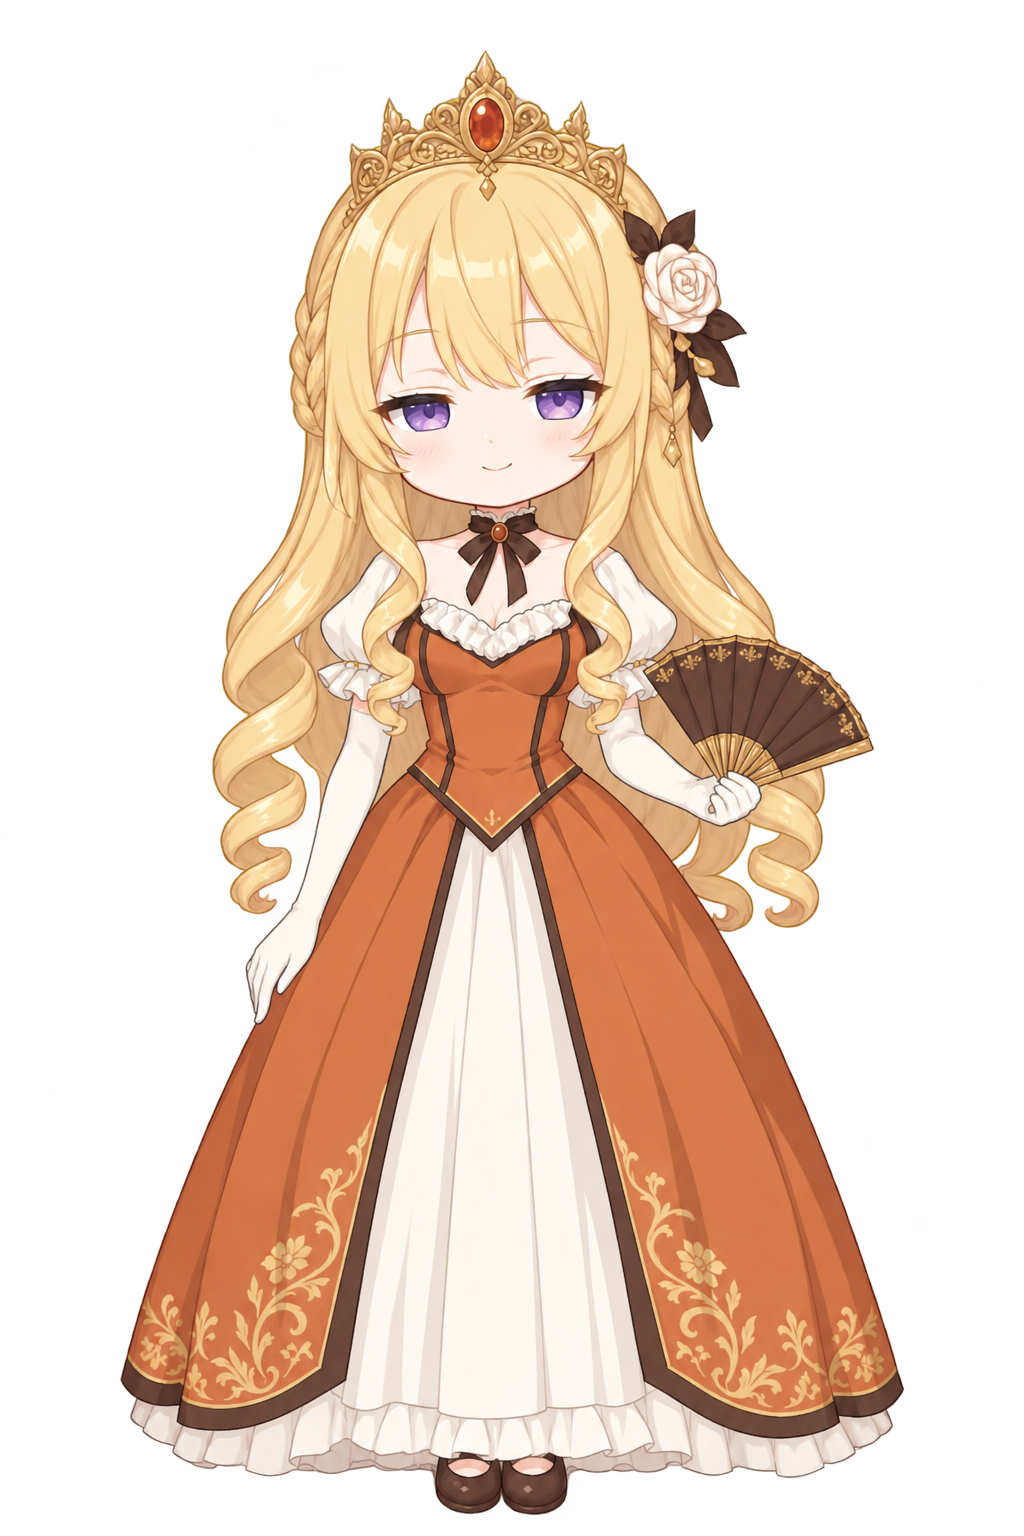
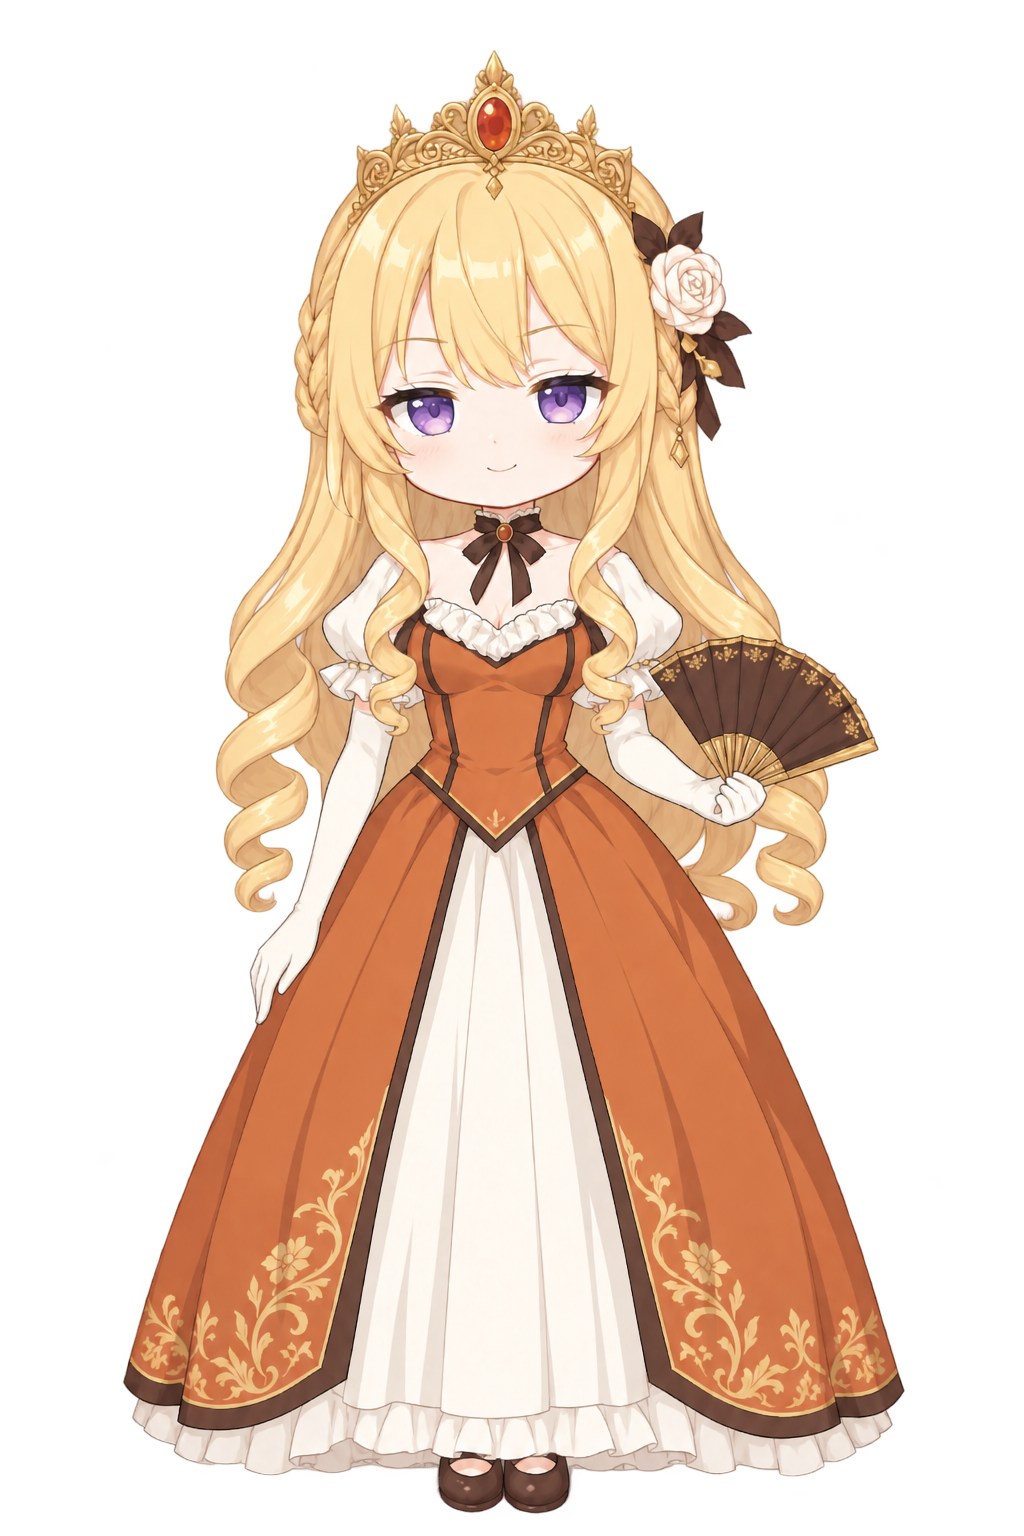
照れ怒りの表情と 7 番のまばたきを加え、再読み込みのトークを足す
- シェル: 7 番（不機嫌）のまばたき（1700/1701）を加える。7 番に頬紅（1910）を重ねた
  9 番（照れ怒り）を加える。26 番（したり顔）の目を作り直し（claudia_eyes_26.png）、
  1000/1001 の輪郭の外に散っていた低アルファの画素を消す
- トーク: 1 番と 7 番のうち、照れ隠しの台詞 42 か所を 9 番に差し替える
- 切り替え: 自分自身への切り替え（再読み込み）のトーク OnGhostChanging_Claudia /
  OnGhostChanged_Claudia を足す。OnGhostChanged / OnGhostCalled は OnBoot の代わりに
  呼ばれるので、Claude Code の見張り（CC.Start）と起動後の確認（CC.BootTimer）を
  ChangeCall.WithCC で付ける（OnBoot に振り替えられたときは付けない）
- GHOST.md のサーフェスの説明を更新する

🌹 Polished by Claudia

diff --git a/GHOST.md b/GHOST.md
@@ -51,14 +51,14 @@
 
 | スコープ | キャラクター | 人物像 | 使えるサーフェス |
 |---|---|---|---|
-| `\0`（`\h`） | クローディア | クロード公爵家（Claude 一族）の令嬢。一人称「わたくし」、相手は「あなた」。語尾は「〜ですわ」「〜ですの」「〜なさい」「〜かしら」「〜でしてよ」。高慢で歯に衣着せぬ物言いだが、実はきわめて有能で面倒見がよい。辛辣さは優雅な皮肉まで。高笑い（「おーっほっほっほ！」）は見事に片付いたときだけ | 0 素（微笑）/ 1 照れ / 2 驚き / 4 落胆 / 5 高笑い / 6 目閉じ / 7 不機嫌 / 25 にっこり / 26 したり顔 |
+| `\0`（`\h`） | クローディア | クロード公爵家（Claude 一族）の令嬢。一人称「わたくし」、相手は「あなた」。語尾は「〜ですわ」「〜ですの」「〜なさい」「〜かしら」「〜でしてよ」。高慢で歯に衣着せぬ物言いだが、実はきわめて有能で面倒見がよい。辛辣さは優雅な皮肉まで。高笑い（「おーっほっほっほ！」）は見事に片付いたときだけ | 0 素（微笑）/ 1 照れ / 2 驚き / 4 落胆 / 5 高笑い / 6 目閉じ / 7 不機嫌 / 9 照れ怒り / 25 にっこり / 26 したり顔 |
 | `\1`（`\u`） | アンソニー | クローディアに仕える青い執事。一人称「私」、クローディアを「お嬢様」と呼ぶ。「〜でございます」の丁寧語で、淡々と冷静にツッコむ。いつも紅茶とクッキーの載ったトレイを持っている | 10 素（半目）/ 11 刮目 |
 
 - 3 番のサーフェスは無い。トークでは上の表にある番号だけを使う。
 - ドラッグ中の浮いた姿として、クローディアの 29 番とアンソニーの 19 番がある（元素材は `work/surfaces/`、他の立ち絵と同じ縮小と配置）。`yaya_mouse.dic` の `OnMouseDragStart` / `OnMouseDragEnd` だけで使い、トークでは使わない。
-- 1000（目閉じ）と 1001（半目）は、0 番のまばたき（`animation0`、1001→1000→1001）に使うパーツ。トークでは使わない。
-- クローディアの 1・6・7・25・26 番は画像を持たず、`surfaces.txt` の `element` で 0 番の上に表情のパーツを重ねて作っている（1 は `claudia_eyes_1.png`、6 は 1000、7 は `claudia_eyes_7.png`、25 は `claudia_eyes_25.png`、26 は 1001）。
-- クローディアの表情のパーツ（1000、1001、`claudia_eyes_*.png`）は、立ち絵の左上から顔のまわりまでを切り出した大きさで、どれも `0,0` に重ねる。
+- 1000（目閉じ）と 1001（半目）は、0 番のまばたき（`animation0`、1001→1000→1001）に使うパーツ。1700（目閉じ）と 1701（半目）は、7 番と 9 番のまばたき（同じ順）に使うパーツ。1910 は 9 番の頬紅。どれもトークでは使わない（`surfacetable.txt` で `__parts` に入れている）。
+- クローディアの 1・6・7・9・25・26 番は画像を持たず、`surfaces.txt` の `element` で 0 番の上に表情のパーツを重ねて作っている（1 は `claudia_eyes_1.png`、6 は 1000、7 と 9 は `claudia_eyes_7.png`、25 は `claudia_eyes_25.png`、26 は `claudia_eyes_26.png`）。9 番は、さらに `animation9999`（`runonce`）で頬紅の 1910 を重ねている。
+- クローディアの表情のパーツ（1000、1001、1700、1701、1910、`claudia_eyes_*.png`）は、立ち絵の左上から顔のまわりまでを切り出した大きさで、どれも `0,0` に重ねる。
 - アンソニーの 11 番は画像を持たず、`surfaces.txt` の `element` で 10 番の上に目と眉のパーツ `anthony_eyes11.png` を重ねて作っている（体の色味を 10 番とそろえるため）。
 - 当たり判定（`surfaces.txt` の `collision`）:
   - クローディア: `Head`、`Face`、`Bust`、`Hair`（左右の巻き髪）、`Fan`（扇。サーフェスごとに位置が違い、2・4・5 は別の位置）、`Skirt`（裾）、`Foot`（左右の靴）
